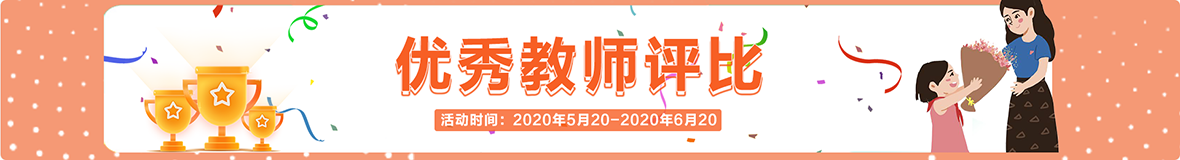
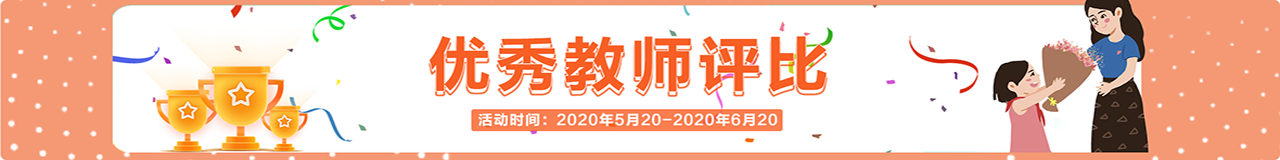
style: indexContent修改1280px  侧面为250px

diff --git a/smart-classroom/src/views/Index.vue b/smart-classroom/src/views/Index.vue
@@ -5,10 +5,10 @@
       <slide-show></slide-show>
     </div>
     <div id="components-layout-demo-basic" :style="{marginTop:'19px'}">
-      <a-layout :style="{width:'1180px',margin:'0 auto',}">
+      <a-layout :style="{width:'1280px',margin:'0 auto',}">
         <a-layout>
-          <a-layout-header :style="{width:'900px',height:'50px',padding:'0px'}">
-            <a-menu v-model="current" mode="horizontal" :style="{width: '900px',height:'50px',lineHeight:'50px',border:'1px solid #eeeeee',borderRadius:'4px', }">
+          <a-layout-header :style="{width:'1000px',height:'50px',padding:'0px'}">
+            <a-menu v-model="current" mode="horizontal" :style="{width: '1000px',height:'50px',lineHeight:'50px',border:'1px solid #eeeeee',borderRadius:'4px', }">
               <a-menu-item key="all" :style="{marginRight:'50px'}">
                 <a href="#" target="_blank" rel="noopener noreferrer">全部</a>
               </a-menu-item>
@@ -29,8 +29,8 @@
               </a-menu-item>
             </a-menu>
           </a-layout-header>
-          <a-layout-content :style="{marginRight:'20px',marginTop: '34px',width:'899px',lineHeight: normal }">
-            <div style="width: 899px;height:25px; ">
+          <a-layout-content :style="{marginRight:'20px',marginTop: '34px',width:'1000px',lineHeight: normal }">
+            <div style="width: 1000px;height:25px; ">
               <div style="width: 104px;height: 25px;float: left">
                 <div style="width: 27px;height: 25px;float: left;">
                   <img src="../assets/sheying.png" style="line-height: 25px">
@@ -39,9 +39,6 @@
               </div>
               <div class="geng"><a href="#" style="color: #999999">更多>></a></div>
             </div>
-
-
-
             <div>
               <a-list :grid="{ gutter: 34, column: 4 }" :data-source="data" :pagination="pagination">
                 <a-list-item slot="renderItem" slot-scope="item, index" class="column-space">
@@ -97,30 +94,7 @@
                 </a-list-item>
               </a-list>
             </div>
-
-<!--            <div style="width: 899px;height:25px; ">-->
-<!--              <div style="width: 104px;height: 25px;float: left">-->
-<!--                <div style="width: 27px;height: 25px;float: left;">-->
-<!--                  <img src="../assets/sheying.png" style="line-height: 25px">-->
-<!--                </div>-->
-<!--                <div class="zhibo">直播</div>-->
-<!--              </div>-->
-<!--              <div class="geng"><a href="#" style="color: #999999">更多>></a></div>-->
-<!--            </div>-->
-<!--            <div>-->
-<!--              <a-list :grid="{ gutter: 16, column: 3 }" :data-source="data_1">-->
-<!--                <a-list-item slot="renderItem" slot-scope="item, index">-->
-<!--                  <div class="list-item">-->
-<!--                    <a-list-item :description="item.description">-->
-<!--                      <div slot="">-->
-
-<!--                      </div>-->
-<!--                    </a-list-item>-->
-<!--                  </div>-->
-<!--                </a-list-item>-->
-<!--              </a-list>-->
-<!--            </div>-->
-            <div style="width: 899px;height:25px; ">
+            <div style="width: 1000px;height:25px; ">
               <div style="width: 104px;height: 25px;float: left">
                 <div style="width: 27px;height: 25px;float: left;">
                   <img src="../assets/sheying.png" style="line-height: 25px">
@@ -188,7 +162,7 @@
               </div>
             </div>
             <div>
-              <div style="width: 899px;height:25px; ">
+              <div style="width: 1000px;height:25px; ">
                 <div style="width: 104px;height: 25px;float: left">
                   <div style="width: 27px;height: 25px;float: left;">
                     <img src="../assets/sheying.png" style="line-height: 25px">
@@ -254,7 +228,7 @@
               </div>
             </div>
             <div>
-              <div style="width: 899px;height:25px; ">
+              <div style="width: 1000px;height:25px; ">
                 <div style="width: 104px;height: 25px;float: left">
                   <div style="width: 27px;height: 25px;float: left;">
                     <img src="../assets/sheying.png" style="line-height: 25px">
@@ -316,7 +290,7 @@
               </div>
             </div>
             <div>
-              <div style="width: 899px;height:25px; ">
+              <div style="width: 1000px;height:25px; ">
                 <div style="width: 104px;height: 25px;float: left">
                   <div style="width: 27px;height: 25px;float: left;">
                     <img src="../assets/sheying.png" style="line-height: 25px">
@@ -384,7 +358,7 @@
 
           </a-layout-content>
         </a-layout>
-        <a-layout-sider>Sider</a-layout-sider>
+        <a-layout-sider :style="{maxWidth:'250px',minWidth:'250px',width:'250px'}">Sider</a-layout-sider>
       </a-layout>
       <a-layout-footer>
         <index-footer></index-footer>

diff --git a/smart-classroom/src/components/SlideShow.vue b/smart-classroom/src/components/SlideShow.vue
@@ -1,5 +1,5 @@
 <template >
-  <a-carousel autoplay :style="{width:'1180px',height:'160px',margin:'0 auto'}">
+  <a-carousel autoplay :style="{width:'1280px',height:'160px',margin:'0 auto'}">
     <template v-for="(item,index) in imgList">
       <div ><img :src="item.src" :alt="item.name" class="img"></div>
     </template>
